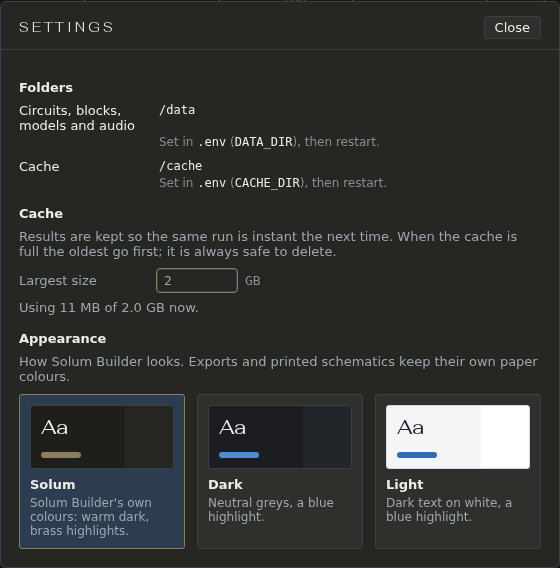
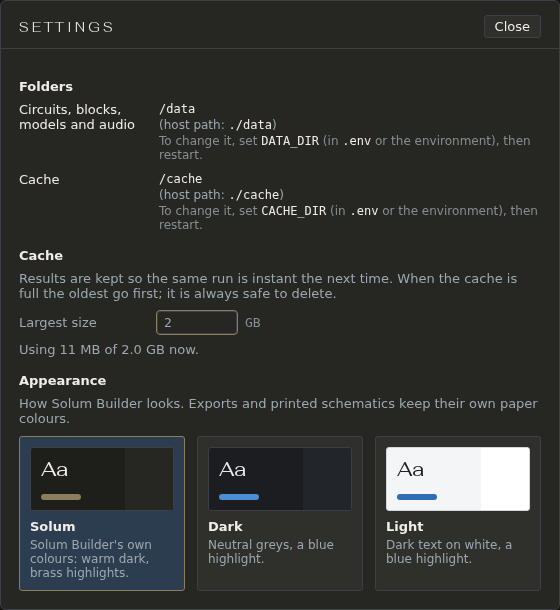
Settings shows the host path in a container; .env is optional (D-313)
compose.yaml passes the two host folders (HOST_DATA_DIR, HOST_CACHE_DIR)
for the dialog to show beside the container's paths. The read-only note
no longer assumes a .env exists. README, .env.example and NAS.md say .env
is optional; the guide's Settings page follows.

Claude-Session: https://claude.ai/code/session_01BhCGMKr9W3AuWm6VyFvjah

diff --git a/web/settings.js b/web/settings.js
@@ -1,7 +1,8 @@
 /**
  * File → Settings… (DOM, D-310): one dialog for every version (Docker, from source, the
  * Mac app). Folders: where the circuits and the cache are (the server's, shown; changed
- * outside the app unless the server says they can move). Cache: its largest size, which
+ * outside the app unless the server says they can move; in a container, with the host's
+ * name for each beside it, D-313). Cache: its largest size, which
  * holds at once, and how much is used. Appearance: the theme chooser.
  * `sizeText` and `cacheSizeProblem` are DOM-free (tested).
  */
@@ -33,13 +34,15 @@ export function cacheSizeProblem(text) {
 
 /**
  * @param {string} id @param {string} label @param {string} path
- * @param {string | null} how how to change it, when the app can't
+ * @param {string | null} host in a container: the folder as the host names it (D-313)
+ * @param {string | null} how the variable that changes it, when the app can't
  */
-function folderRow(id, label, path, how) {
+function folderRow(id, label, path, host, how) {
   return h("div", { class: "settings-folder", id }, [
     h("span", { class: "settings-label" }, [label]),
     h("code", { class: "settings-path" }, [path]),
-    ...(how ? [h("span", { class: "settings-how" }, ["Set in ", h("code", {}, [".env"]), " (", h("code", {}, [how]), "), then restart."])] : []),
+    ...(host ? [h("span", { class: "settings-host" }, ["(host path: ", h("code", {}, [host]), ")"])] : []),
+    ...(how ? [h("span", { class: "settings-how" }, ["To change it, set ", h("code", {}, [how]), " (in ", h("code", {}, [".env"]), " or the environment), then restart."])] : []),
   ]);
 }
 
@@ -75,8 +78,8 @@ export async function settingsSheet(onTheme) {
     id: "settings",
     body: [
       h("h3", {}, ["Folders"]),
-      folderRow("settings-data-dir", "Circuits, blocks, models and audio", now.data_dir, now.can_move_folders ? null : "DATA_DIR"),
-      folderRow("settings-cache-dir", "Cache", now.cache_dir, now.can_move_folders ? null : "CACHE_DIR"),
+      folderRow("settings-data-dir", "Circuits, blocks, models and audio", now.data_dir, now.host_data_dir, now.can_move_folders ? null : "DATA_DIR"),
+      folderRow("settings-cache-dir", "Cache", now.cache_dir, now.host_cache_dir, now.can_move_folders ? null : "CACHE_DIR"),
       h("h3", {}, ["Cache"]),
       h("p", {}, ["Results are kept so the same run is instant the next time. When the cache is full the oldest go first; it is always safe to delete."]),
       h("div", { class: "form-row" }, [h("label", { for: "settings-cache-size" }, ["Largest size"]), size, h("span", { class: "unit" }, ["GB"])]),

diff --git a/web/app.css b/web/app.css
@@ -641,8 +641,9 @@ table.readout tr.rail th { color: var(--text-2); }
 .icon-button { display: inline-flex; align-items: center; padding: 5px 7px; }
 /* File → Settings… (D-310) */
 .settings-folder { display: grid; grid-template-columns: 130px 1fr; gap: 2px 10px; margin-bottom: 10px; }
-.settings-label { color: var(--text); }
+.settings-label { color: var(--text); grid-row: 1 / span 3; }
 .settings-path { overflow-wrap: anywhere; }
+.settings-host { grid-column: 2; font-size: 12px; overflow-wrap: anywhere; }
 .settings-how { grid-column: 2; font-size: 12px; color: var(--text-3); }
 #settings .form-row { grid-template-columns: 130px 80px 1fr; }
 #settings .form-row input { width: 80px; }

diff --git a/tests/unit/test_compose.py b/tests/unit/test_compose.py
@@ -1,5 +1,6 @@
 """`docker compose` builds the runtime image, not the Dockerfile's last stage (the dev image)."""
 
+import re
 from pathlib import Path
 
 from solum.yamlio import load_yaml
@@ -11,3 +12,14 @@ def test_compose_builds_the_runtime_stage() -> None:
     service = load_yaml(ROOT / "compose.yaml")["services"]["solum-builder"]
     assert service["build"]["target"] == "runtime"
     assert "FROM ${BASE} AS runtime" in (ROOT / "Dockerfile").read_text()
+
+
+def test_compose_runs_without_an_env_file_and_names_the_host_folders() -> None:
+    """D-313: every variable has a default, and Settings is told the two host folders by
+    the same expressions the mounts use."""
+    text = (ROOT / "compose.yaml").read_text()
+    service = load_yaml(ROOT / "compose.yaml")["services"]["solum-builder"]
+    assert service["volumes"] == ["${DATA_DIR:-./data}:/data", "${CACHE_DIR:-./cache}:/cache"]
+    assert service["environment"]["HOST_DATA_DIR"] == "${DATA_DIR:-./data}"
+    assert service["environment"]["HOST_CACHE_DIR"] == "${CACHE_DIR:-./cache}"
+    assert all(":-" in use for use in re.findall(r"\$\{[^}]*\}", text))

diff --git a/tests/unit/test_api.py b/tests/unit/test_api.py
@@ -63,12 +63,22 @@ def test_settings_show_the_folders_and_the_cache(
     assert body == {
         "data_dir": str(tmp_path / "data"),
         "cache_dir": str(tmp_path / "cache"),
+        "host_data_dir": None,
+        "host_cache_dir": None,
         "cache_max_gb": 3.0,
         "cache_used_bytes": 0,
         "can_move_folders": False,
         "preferences": None,
     }
     assert not (tmp_path / "data" / "solum-settings.json").exists()
+
+
+def test_settings_name_the_host_folders_in_a_container(monkeypatch: pytest.MonkeyPatch) -> None:
+    """D-313: compose passes the folders as the host names them, for the dialog to show."""
+    monkeypatch.setenv("HOST_DATA_DIR", "/volume1/solum/data")
+    monkeypatch.setenv("HOST_CACHE_DIR", "./cache")
+    body = client(monkeypatch, lambda _s: FakeEngine()).get("/api/settings").json()
+    assert (body["host_data_dir"], body["host_cache_dir"]) == ("/volume1/solum/data", "./cache")
 
 
 def test_settings_say_when_the_folders_can_move(monkeypatch: pytest.MonkeyPatch) -> None:

diff --git a/solum/config.py b/solum/config.py
@@ -20,6 +20,9 @@ class Settings:
     cache_max_gb: float = 2.0
     # Settings may change the two folders: only the Mac app's launcher sets it (D-310)
     can_move_folders: bool = False
+    # in a container: the two folders as the host names them, for Settings to show (D-313)
+    host_data_dir: str | None = None
+    host_cache_dir: str | None = None
 
 
 def cache_gb(value: object, name: str) -> float:
@@ -56,4 +59,6 @@ def load_settings(env: Mapping[str, str] | None = None) -> Settings:
         ngspice_library=env.get("NGSPICE_LIBRARY") or None,
         cache_max_gb=cache_max_gb,
         can_move_folders=env.get("CAN_MOVE_FOLDERS", "") == "1",
+        host_data_dir=env.get("HOST_DATA_DIR") or None,
+        host_cache_dir=env.get("HOST_CACHE_DIR") or None,
     )

diff --git a/tests/ui/test_tools.py b/tests/ui/test_tools.py
@@ -456,8 +456,9 @@ def test_settings_folders_and_cache_size(page: Page, base_url: str, ui_settings:
         str(ui_settings.data_dir.resolve())
     )
     expect(sheet.locator("#settings-data-dir .settings-how")).to_have_text(
-        "Set in .env (DATA_DIR), then restart."
+        "To change it, set DATA_DIR (in .env or the environment), then restart."
     )
+    expect(sheet.locator(".settings-host")).to_have_count(0)  # not in a container
     expect(sheet.locator("#settings-cache-dir .settings-path")).to_have_text(
         str(ui_settings.cache_dir.resolve())
     )

diff --git a/solum/api/app.py b/solum/api/app.py
@@ -561,6 +561,8 @@ def create_app(settings: Settings | None = None) -> FastAPI:
         return {
             "data_dir": str(settings.data_dir.resolve()),
             "cache_dir": str(settings.cache_dir.resolve()),
+            "host_data_dir": settings.host_data_dir,
+            "host_cache_dir": settings.host_cache_dir,
             "cache_max_gb": cache_max_gb(settings, saved),
             "cache_used_bytes": renders.size(),
             "can_move_folders": settings.can_move_folders,

diff --git a/scripts/guide_shots.py b/scripts/guide_shots.py
@@ -229,7 +229,8 @@ def settings(page: Page, base: str) -> None:
 
     def as_docker(route: Route) -> None:
         answer = route.fetch()
-        shown = {**answer.json(), "data_dir": "/data", "cache_dir": "/cache"}
+        shown = {**answer.json(), "data_dir": "/data", "cache_dir": "/cache",
+                 "host_data_dir": "./data", "host_cache_dir": "./cache"}  # fmt: skip
         route.fulfill(response=answer, json=shown)
 
     page.route("**/api/settings", as_docker)

diff --git a/docs/DECISIONS.md b/docs/DECISIONS.md
@@ -1719,7 +1719,7 @@ Each `##` section of `docs/guide/README.md` heads a group in the left-hand list,
 **D-310 — One Settings dialog for every version, at File → Settings…; the theme moves into it; the settings file wins over `.env` for the cache size** (2026-11-13) `project` `look`
 - **File → Settings…** (its own module, `web/settings.js`) is the same dialog in Docker, from source and the Mac app. Sections: Folders (the circuits folder and the cache folder, shown), Cache (the largest size, editable, and how much is used now), Appearance (the theme chooser). More settings join it later.
 - **View → Theme… is gone**: the three cards (D-303) are in Settings, built by the same code (`web/theme-chooser.js`, was `theme-sheet.js`), not a second chooser.
-- **The folders are read-only** unless the server says `can_move_folders`, which comes from the environment flag `CAN_MOVE_FOLDERS=1` that only the Mac app's launcher sets. Without it each folder shows "Set in `.env` (`DATA_DIR`), then restart": in Docker they are mounts chosen outside the container.
+- **The folders are read-only** unless the server says `can_move_folders`, which comes from the environment flag `CAN_MOVE_FOLDERS=1` that only the Mac app's launcher sets. Without it each folder shows how to change it outside the app (the wording, and the host path in a container: D-313): in Docker they are mounts chosen outside the container.
 - **`GET /api/settings`** → `{data_dir, cache_dir, cache_max_gb, cache_used_bytes, can_move_folders, preferences}`; **`PUT`** takes `cache_max_gb` and/or `preferences` (D-311) and answers the same.
 - **The cache size changes without a restart.** It is kept in `DATA_DIR/solum-settings.json` (`solum/settings_file.py`), and the cache asks for its limit each time it evicts (`SimCache`'s `max_bytes` may be a function), reading the file again only when it has changed. So the server's cache and each render worker's (separate processes, D-083) follow the same value at once; the endpoint then trims the cache.
 - **The file wins over `CACHE_MAX_GB` once the size has been set in Settings**; until then `.env` holds as before. The person changed it in the app most recently and on purpose; `.env` can't be written from a container.
@@ -1741,3 +1741,10 @@ Each `##` section of `docs/guide/README.md` heads a group in the left-hand list,
 - The Audio pane's **Download WAV** link has the `download` attribute: in the Mac app's WebKit window the WAV otherwise opened in a player in place of the app. The file name is still the server's (`Content-Disposition`).
 - **Download WAV** and **Download all (.zip)** never wrap or shrink (`white-space: nowrap; flex: none`): WebKit wrapped their text and drew them twice as tall.
 *Alternatives:* the words "Open in a new window" (wrong in a browser); a blob download from script for the WAV (the attribute is enough, and the link still works with the middle button).
+
+**D-313 — In a container, Settings shows each folder's host path too; `.env` is optional** (2026-11-13) `project` `look`
+- In Docker the app only sees `/data` and `/cache`; which folders of the machine those are is decided by the mounts before it starts. So `compose.yaml` also passes the two host folders as `HOST_DATA_DIR` and `HOST_CACHE_DIR` (the same `${DATA_DIR:-./data}` and `${CACHE_DIR:-./cache}` the mounts use), `GET /api/settings` answers them as `host_data_dir` and `host_cache_dir` (null when not set: from source, the Mac app), and the dialog shows the container's path, then "(host path: …)". They are for showing only. A relative one (`./data`) is shown as written: it is beside `compose.yaml`.
+- The read-only note is "To change it, set `DATA_DIR` (in `.env` or the environment), then restart": it no longer assumes a `.env` exists.
+- **`.env` is optional and said to be**: compose's defaults (`./data`, `./cache`, port 8000, 2 GB) run the app as cloned. The README's install steps no longer copy `.env.example`; that file says it is optional and no longer sets `CACHE_MAX_GB` (still read, D-310, but the size is set in Settings).
+- The folders still can't be changed from the app in Docker (the user asked whether the app could assume them and let them be changed): a container can't remount itself. `CAN_MOVE_FOLDERS` (D-310) stays the one thing that differs between Docker and the Mac app.
+*Alternatives:* only the host path shown (the container's is what logs and errors name); resolving a relative host path to an absolute one (compose doesn't give the project folder to the container without yet another variable); someone starting the image by `docker run` gets no host paths unless they pass the two variables: accepted, the dialog then shows the container's paths alone.

diff --git a/README.md b/README.md
@@ -47,16 +47,16 @@ You need Docker (or Podman) with Compose, on an x86-64 or ARM64 machine (Apple S
 
     git clone <this repository>
     cd solum-builder
-    cp .env.example .env
     docker compose up
 
 Then open http://localhost:8000. The first `docker compose up` builds the image, which takes a few minutes.
 
-`.env` says where things are kept:
+It runs as it is: your circuits, blocks, models and audio files go in `data/` (**back this folder up**), and the search index and saved results in `cache/` (safe to delete at any time), both in the repo's folder. File → **Settings…** in the app shows where they are and sets how large the cache may grow.
 
-- `DATA_DIR`: your circuits, blocks, models and audio files. **Back this folder up.**
-- `CACHE_DIR`: the search index and saved simulation results. Safe to delete at any time; keep it on a local disk.
-- `CACHE_MAX_GB`: the largest the cache may grow (2 GB); the oldest results are dropped first. File → Settings… changes it while the app runs, and its value then wins over this one.
+To keep them elsewhere, or use another port, copy `.env.example` to `.env` and edit it:
+
+- `DATA_DIR`: where your files go.
+- `CACHE_DIR`: where the cache goes; keep it on a local disk.
 - `PORT`: the port the app is served on (8000).
 
 The repo comes with the two default folders, `data/` and `cache/`. If you point `DATA_DIR` or `CACHE_DIR` somewhere else, or start the image yourself with `podman run` or `docker run`, create the folders first (`mkdir -p /path/to/data /path/to/cache`): Podman stops with an error when a folder it should mount isn't there.

diff --git a/docs/guide/settings.md b/docs/guide/settings.md
@@ -11,7 +11,9 @@ Where the app keeps things, shown so you can find and back them up:
 - **Circuits, blocks, models and audio**: everything you make or add. Back this folder up.
 - **Cache**: saved results and the search index. It is always safe to delete; the app rebuilds it.
 
-With Docker, or running from source, the folders are chosen outside the app, so each says **Set in `.env` (`DATA_DIR`), then restart** (`CACHE_DIR` for the cache). With Docker the paths shown are the ones inside the container, `/data` and `/cache`; the folders on your machine are the ones `.env` names, `data/` and `cache/` beside `compose.yaml` unless you changed them.
+With Docker, or running from source, the folders are chosen outside the app, so each says how: **To change it, set `DATA_DIR` (in `.env` or the environment), then restart** (`CACHE_DIR` for the cache). Without a `.env` they are `data/` and `cache/` in the app's own folder.
+
+With Docker each folder is shown twice: the path inside the container (`/data`, `/cache`), then the **host path**, which is the folder on your machine and the one to back up. A host path like `./data` is beside `compose.yaml`.
 
 ## Cache
 
